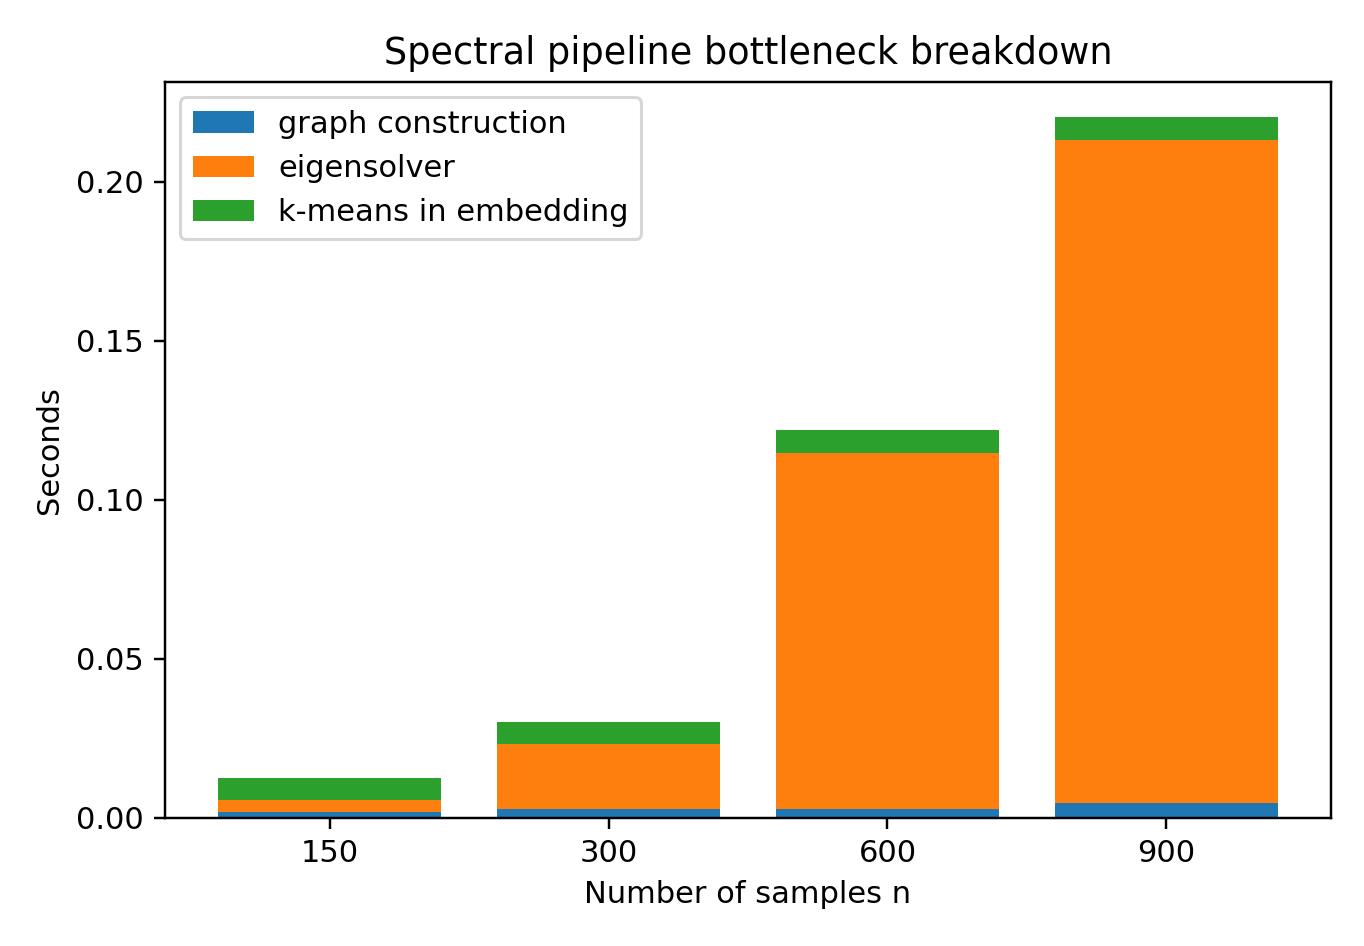
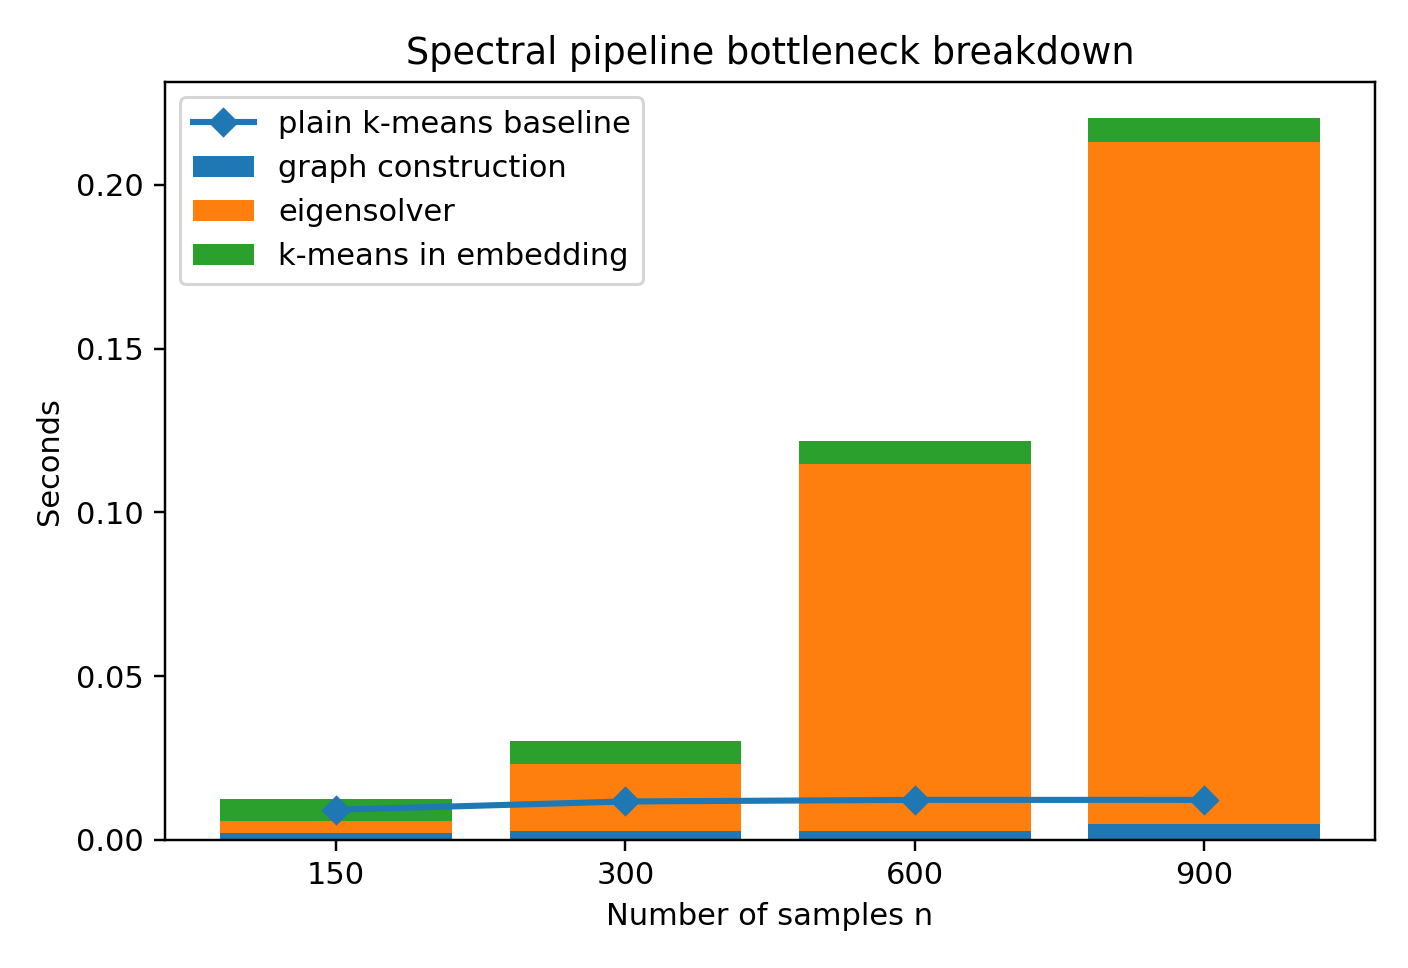
update inconsistency

Changed region(s): [[0.0308, 0.0307, 0.9853, 0.981], [0.7698, 0.1226, 0.9238, 0.1533]]

diff --git a/main.tex b/main.tex
@@ -81,7 +81,7 @@ There are three main costs.
     \item \textbf{$k$-means in spectral space.} Once the embedding is computed, the final step is cheap because the embedding has only $k$ columns.
 \end{enumerate}
 
-We measured these costs directly. On a two-moons benchmark, increasing $n$ from $150$ to $900$ increased the spectral pipeline runtime from $0.015$ s to $0.353$ s, while the $k$-means-only baseline remained around $0.013$--$0.016$ s. The eigensolver dominated the growth, while graph memory rose from about $24$ KiB to $161$ KiB for the sparse affinity matrix. Figure~\ref{fig:scaling} shows these trends.
+We measured these costs directly. On a two-moons benchmark, increasing $n$ from $150$ to $900$ increased the spectral pipeline runtime from about $0.012$ s to $0.220$ s, while the $k$-means-only baseline remained around $0.009$--$0.012$ s. The eigensolver dominated the growth, while graph memory rose from about $24$ KiB to $161$ KiB for the sparse affinity matrix. Figure~\ref{fig:scaling} shows these trends. Exact timings vary by machine, so we interpret the trend rather than the individual seconds.
 
 \section{Experimental design}
 \subsection{Metrics}
@@ -100,7 +100,7 @@ We used the following groups of experiments.
 For graph datasets, plain feature-space $k$-means is not naturally defined. To keep the comparison explicit, we used a weak but transparent baseline: $k$-means on adjacency rows. This is not a state-of-the-art graph clustering baseline, but it provides a concrete comparator.
 
 \section{Results: synthetic data}
-Table~\ref{tab:synthetic} summarizes the main synthetic experiments. The expected pattern is visible. Spectral clustering strongly beats $k$-means on non-convex geometry (two moons, circles), ties or nearly ties on well-separated blobs, and degrades gracefully on stress cases. The high-dimensional moons example is particularly useful: both methods weaken, but spectral clustering still retains a noticeable advantage because the low-dimensional manifold structure survives in local neighborhoods.
+Table~\ref{tab:synthetic} summarizes the main synthetic experiments. The expected pattern is visible on the clean low-dimensional examples: spectral clustering strongly beats $k$-means on non-convex geometry (two moons, circles), and ties or nearly ties on well-separated blobs. The stress cases are more nuanced. On high-dimensional moons, spectral clustering has a modest quantitative advantage, but the 2D projection in Figure~\ref{fig:highdim} makes clear that neither method cleanly recovers the original moon structure after many noisy coordinates are added. On the bridge-connected dataset, the method is better described as partially degraded rather than catastrophically failed: it separates the two main masses reasonably, but the thin bridge lowers the ARI and weakens the graph-cut interpretation.
 
 \begin{table}[H]
 \centering
@@ -113,15 +113,15 @@ Dataset & Spectral ARI & $k$-means ARI & Comment \\
 Two moons & 1.000 & 0.245 & Canonical non-convex success case. \\
 Circles & 1.000 & -0.002 & Spectral cleanly separates rings. \\
 Blobs & 0.990 & 0.995 & Both methods work on convex, separated clusters. \\
-High-dim moons & 0.404 & 0.259 & Spectral remains better after adding noisy coordinates. \\
+High-dim moons & 0.404 & 0.259 & Both methods degrade; spectral keeps a modest numerical edge. \\
 High-dim blobs & 1.000 & 1.000 & Both methods remain strong. \\
 Overlapping blobs & 0.302 & 0.254 & Ambiguous partition; both methods degrade. \\
-Bridge failure & 0.552 & 0.532 & Thin bridge weakens the graph cut separation. \\
+Bridge stress & 0.552 & 0.532 & Thin bridge partially weakens the intended cut. \\
 \bottomrule
 \end{tabular}
 \end{table}
 
-Figures~\ref{fig:moons}--\ref{fig:failure2} show representative examples. Spectral clustering does exactly what we expect on two moons and concentric circles. The bridge example is a more honest failure mode: once two clusters are connected by a thin path, graph connectivity can work against the desired partition.
+Figures~\ref{fig:moons}--\ref{fig:failure2} show representative examples. Spectral clustering does exactly what we expect on two moons and concentric circles. The high-dimensional moons and bridge examples are intentionally less clean: the metrics show only partial advantages, and the plots should be read as stress tests rather than visual proofs of successful recovery.
 
 \begin{figure}[H]
     \centering
@@ -143,7 +143,7 @@ Figures~\ref{fig:moons}--\ref{fig:failure2} show representative examples. Spectr
     \centering
     \includegraphics[width=0.47\textwidth]{final_pic/high_dim_moons_spectral.png}
     \includegraphics[width=0.47\textwidth]{final_pic/high_dim_moons_kmeans.png}
-    \caption{Moons embedded in higher dimension using additional noise coordinates. Spectral clustering still has a measurable advantage.}
+    \caption{Moons embedded in higher dimension using additional noise coordinates. Both methods degrade; spectral clustering retains a modest quantitative advantage but no longer cleanly recovers the moon structure in this projection.}
     \label{fig:highdim}
 \end{figure}
 
@@ -151,12 +151,12 @@ Figures~\ref{fig:moons}--\ref{fig:failure2} show representative examples. Spectr
     \centering
     \includegraphics[width=0.47\textwidth]{final_pic/overlapping_blobs_failure_spectral.png}
     \includegraphics[width=0.47\textwidth]{final_pic/bridge_failure_spectral.png}
-    \caption{Two stress cases for spectral clustering: overlapping blobs (left) and a bridge-connected dataset (right).}
+    \caption{Two stress cases for spectral clustering: overlapping blobs (left) and a bridge-connected dataset (right). In the bridge example, spectral clustering still separates the main masses, but the thin connection weakens the intended cut and reduces ARI.}
     \label{fig:failure2}
 \end{figure}
 
 \section{Results: real data and digit subsets}
-The project brief explicitly asks for the digit-subset progression $\{0,1\}$, $\{1,7\}$, $\{0,1,3,6\}$, and all digits. Table~\ref{tab:digits} reports those results. Spectral clustering performs very well on $\{0,1\}$, substantially beats $k$-means on $\{0,1,3,6\}$ and on all digits, but does poorly on $\{1,7\}$ for the specific graph-construction choice used here. That is a useful lesson rather than a bug: spectral clustering is sensitive to the neighborhood graph, and a case where vanilla $k$-means already aligns extremely well with the class geometry can favor $k$-means.
+The project brief explicitly asks for the digit-subset progression $\{0,1\}$, $\{1,7\}$, $\{0,1,3,6\}$, and all digits. Table~\ref{tab:digits} reports those results. The outcome is deliberately presented as a mixed result rather than a blanket win for spectral clustering. Spectral clustering is excellent on $\{0,1\}$ and strong on all ten digits, but it performs poorly on $\{1,7\}$ and underperforms $k$-means on $\{0,1,3,6\}$ for the particular $k$-NN graph used here. Our hypothesis is that raw pixel-space Euclidean distances already separate some digit subsets nearly linearly, while the local graph can become brittle when classes have different stroke styles and densities. This is a useful negative result: spectral clustering is sensitive to graph construction, not a free improvement over $k$-means.
 
 \begin{table}[H]
 \centering
@@ -166,28 +166,28 @@ The project brief explicitly asks for the digit-subset progression $\{0,1\}$, $\
 \toprule
 Subset & Method & Accuracy & ARI & Purity \\
 \midrule
-$\{0,1\}$ & Spectral & 0.997 & 0.989 & 0.997 \\
+$\{0,1\}$ & Spectral & 0.994 & 0.978 & 0.994 \\
 $\{0,1\}$ & $k$-means & 0.994 & 0.978 & 0.994 \\
 \addlinespace
 $\{1,7\}$ & Spectral & 0.571 & 0.019 & 0.571 \\
 $\{1,7\}$ & $k$-means & 1.000 & 1.000 & 1.000 \\
 \addlinespace
-$\{0,1,3,6\}$ & Spectral & 0.994 & 0.985 & 0.994 \\
+$\{0,1,3,6\}$ & Spectral & 0.780 & 0.696 & 0.780 \\
 $\{0,1,3,6\}$ & $k$-means & 0.935 & 0.838 & 0.935 \\
 \addlinespace
-All digits & Spectral & 0.757 & 0.670 & 0.774 \\
+All digits & Spectral & 0.770 & 0.680 & 0.785 \\
 All digits & $k$-means & 0.589 & 0.468 & 0.623 \\
 \bottomrule
 \end{tabular}
 \end{table}
 
-Figure~\ref{fig:digits} shows the $\{0,1,3,6\}$ subset after PCA to two dimensions for visualization only; the actual clustering was run in the full standardized feature space. Figure~\ref{fig:digitsbar} summarizes purity across the four required digit experiments.
+Figure~\ref{fig:digits} shows the $\{0,1,3,6\}$ subset after PCA to two dimensions. This plot is illustrative only: it compresses a 64-dimensional pixel space into two axes and therefore cannot fully explain the metric gap in Table~\ref{tab:digits}. The stronger evidence is the quantitative table and the purity summary in Figure~\ref{fig:digitsbar}.
 
 \begin{figure}[H]
     \centering
     \includegraphics[width=0.47\textwidth]{final_pic/digits_2d_spectral.png}
     \includegraphics[width=0.47\textwidth]{final_pic/digits_2d_kmeans.png}
-    \caption{Digits subset $\{0,1,3,6\}$ visualized in 2D by PCA. Spectral clustering gives a cleaner partition on this harder multi-class subset.}
+    \caption{Digits subset $\{0,1,3,6\}$ visualized in 2D by PCA. Both clusterings look fairly clean in this projection; the quantitative table is needed to evaluate the actual clustering quality.}
     \label{fig:digits}
 \end{figure}
 
@@ -212,12 +212,12 @@ Spectral clustering is especially natural on graph data. On Zachary's karate clu
 \end{figure}
 
 \section{Noise robustness and computational scaling}
-Figure~\ref{fig:noise} shows ARI under additive Gaussian noise on two moons. Spectral clustering remains perfect for small noise and clearly stronger than $k$-means over a useful range, but it eventually degrades once the local graph no longer reflects the underlying manifold. This is exactly the sort of robustness experiment the brief asks for.
+Figure~\ref{fig:noise} shows ARI under additive Gaussian noise on two moons. Spectral clustering is excellent at low noise, but performance becomes unstable once noise disrupts the local graph structure. The curve is not monotone: the small bump around intermediate noise is likely seed-level variation from a single trial, and should not be over-interpreted. The robust conclusion is that the method has a low-noise success regime and then rapidly becomes graph-construction sensitive.
 
 \begin{figure}[H]
     \centering
     \includegraphics[width=0.58\textwidth]{final_pic/noise_moons_ari.png}
-    \caption{ARI versus additive Gaussian noise on two moons.}
+    \caption{ARI versus additive Gaussian noise on two moons. Spectral clustering succeeds at low noise, then becomes unstable once the neighborhood graph no longer reliably tracks the moon geometry.}
     \label{fig:noise}
 \end{figure}
 
@@ -276,12 +276,12 @@ Figure~\ref{fig:failuretaxonomy} collects three interpretable failure or stress 
 \end{figure}
 
 \subsection{Runtime bottleneck breakdown}
-Figure~\ref{fig:bottleneck} expands the computational scaling analysis by decomposing spectral clustering runtime into graph construction, eigensolver, and final $k$-means-on-embedding stages.  For the largest sizes tested, the eigensolver dominates the runtime.  This agrees with the theoretical discussion: once a sparse graph has been built, the expensive stage is extracting the relevant eigenvectors of a large sparse Laplacian.
+Figure~\ref{fig:bottleneck} expands the computational scaling analysis by decomposing spectral clustering runtime into graph construction, eigensolver, and final $k$-means-on-embedding stages, and overlays the plain $k$-means baseline from the same benchmark.  For the largest sizes tested, the spectral total almost exactly tracks eigensolver time, while the baseline remains much smaller.  This agrees with the theoretical discussion: once a sparse graph has been built, the expensive stage is extracting the relevant eigenvectors of a large sparse Laplacian.
 
 \begin{figure}[H]
     \centering
     \includegraphics[width=0.68\textwidth]{final_pic/runtime_bottleneck_breakdown.png}
-    \caption{Runtime bottleneck breakdown for the spectral clustering pipeline.  The final $k$-means step is small; the eigensolver becomes the dominant cost as $n$ grows.}
+    \caption{Runtime bottleneck breakdown for the spectral clustering pipeline, with a plain $k$-means baseline overlaid.  The final $k$-means step is small; the eigensolver becomes the dominant cost as $n$ grows.}
     \label{fig:bottleneck}
 \end{figure}
 
@@ -292,10 +292,10 @@ Overall, the experiments match the standard theory quite well.
     \item On non-convex synthetic datasets, spectral clustering substantially outperforms $k$-means.
     \item On standard blob-like data, both methods are strong and $k$-means can even be slightly better.
     \item On graph/community datasets, spectral clustering is especially natural and strong.
-    \item On the required digit subsets, spectral clustering is not uniformly better; it helps strongly on the harder multi-class subsets but not on the easy $\{1,7\}$ pair. This is a useful reminder that graph construction is a modeling choice, not a free lunch.
+    \item On the required digit subsets, spectral clustering is not uniformly better; it wins on $\{0,1\}$ and all digits, but loses on $\{1,7\}$ and $\{0,1,3,6\}$ under the chosen graph. This is a useful reminder that graph construction is a modeling choice, not a free lunch.
 \end{itemize}
 
-The project brief also asks whether the results match expectations. The answer is mostly yes. The main surprise is the $\{1,7\}$ subset, where $k$-means already aligns almost perfectly with the raw feature geometry and our particular neighborhood graph is comparatively poor. This is an informative negative result and belongs in the report.
+The project brief also asks whether the results match expectations. The answer is mostly yes, but the exceptions are important. The main surprises are the $\{1,7\}$ and $\{0,1,3,6\}$ digit subsets, where $k$-means already aligns well with raw pixel geometry and our particular neighborhood graph is comparatively poor. The high-dimensional moons and bridge examples also show that a numerical advantage can be visually modest. These are informative negative results, so the revised captions deliberately avoid overstating what the plots show.
 
 \section{Reproducibility}
 The code is organized as a small Python workspace. Running

diff --git a/code/spectral_project/plots.py b/code/spectral_project/plots.py
@@ -92,8 +92,9 @@ def eigenvalue_plot(path: Path, eigs_dict: dict[str, list[float]], title: str) -
     plt.close()
 
 
-def stacked_runtime(path: Path, df, title: str) -> None:
-    plt.figure(figsize=(6.2, 4.3))
+def stacked_runtime(path: Path, df, title: str, baseline_df=None) -> None:
+    """Stacked spectral runtime bars, optionally with a plain k-means baseline line."""
+    plt.figure(figsize=(6.4, 4.4))
     x = np.arange(len(df))
     labels = [str(v) for v in df["n"].tolist()]
     bottom = np.zeros(len(df))
@@ -105,6 +106,9 @@ def stacked_runtime(path: Path, df, title: str) -> None:
         vals = df[col].to_numpy(dtype=float)
         plt.bar(x, vals, bottom=bottom, label=lab)
         bottom += vals
+    if baseline_df is not None and len(baseline_df) > 0:
+        base = baseline_df.set_index("n").loc[df["n"].tolist()]
+        plt.plot(x, base["total_seconds"].to_numpy(dtype=float), marker="D", linewidth=2, label="plain k-means baseline")
     plt.xticks(x, labels)
     plt.xlabel("Number of samples n")
     plt.ylabel("Seconds")

diff --git a/code/spectral_project/experiments.py b/code/spectral_project/experiments.py
@@ -451,7 +451,8 @@ def run_bottleneck_breakdown(random_state: int = 0) -> pd.DataFrame:
     """More explicit runtime bottleneck figure derived from the scaling benchmark."""
     df = pd.read_csv(results_dir() / "scaling_metrics.csv")
     sdf = df[df["method"] == "spectral"].copy()
-    stacked_runtime(figures_dir() / "runtime_bottleneck_breakdown.png", sdf, "Spectral pipeline bottleneck breakdown")
+    kdf = df[df["method"] == "kmeans"].copy()
+    stacked_runtime(figures_dir() / "runtime_bottleneck_breakdown.png", sdf, "Spectral pipeline bottleneck breakdown", baseline_df=kdf)
     total = sdf["total_seconds"].replace(0, np.nan)
     pct = sdf[["graph_seconds", "eigensolver_seconds", "post_kmeans_seconds"]].div(total, axis=0) * 100
     pct.insert(0, "n", sdf["n"].values)

diff --git a/TODO.md b/TODO.md
@@ -41,6 +41,29 @@ This file summarizes what has been completed and what remains optional.
   - Output: `final_pic/runtime_bottleneck_breakdown.png`
   - Metrics: `results/runtime_bottleneck_percent.csv`
 
+
+## Caption/text consistency audit completed
+
+- [x] Revised high-dimensional moons language.
+  - Change: downgraded the claim from a visually clean recovery to a modest quantitative advantage.
+  - Reason: the plot shows both methods are degraded after adding noisy coordinates.
+
+- [x] Revised digit-subset discussion.
+  - Change: emphasized that the PCA visualization is illustrative only and that the quantitative table is the stronger evidence.
+  - Reason: a 2D PCA projection can hide differences that appear in the full metric table.
+
+- [x] Revised noise-robustness language.
+  - Change: described the curve as unstable/non-monotone after graph disruption rather than as smooth degradation.
+  - Reason: the single-seed sweep has a small intermediate bump.
+
+- [x] Revised bridge example.
+  - Change: renamed it from a catastrophic failure to a stress/partial-degradation case.
+  - Reason: the visual plot still separates the two main masses reasonably.
+
+- [x] Revised runtime bottleneck figure.
+  - Change: overlaid the plain k-means baseline on the bottleneck plot.
+  - Reason: the text compares spectral runtime to k-means, so the figure should display the comparison directly.
+
 ## Optional remaining improvements
 
 - [ ] Repeated-seed robustness.

diff --git a/README.md b/README.md
@@ -89,6 +89,19 @@ The current code runs:
   - failure mode taxonomy,
   - runtime bottleneck breakdown.
 
+
+## Recent revision: figure-caption consistency
+
+The current version includes a pass that aligns captions and discussion with the actual plots and metric tables. In particular:
+
+- high-dimensional moons are described as a modest quantitative advantage, not a clean visual recovery;
+- the digit PCA figure is described as illustrative only, with the quantitative table carrying the claim;
+- the noise curve is described as single-seed and non-monotone after graph disruption;
+- the bridge example is treated as a stress/partial-degradation case rather than a catastrophic failure;
+- the runtime bottleneck plot now overlays the plain k-means baseline used in the text.
+
+This makes the report more cautious and defensible: visual figures illustrate behavior, while stronger claims are tied to the metric tables.
+
 ## Notes for new contributors
 
 The main entrypoint is `spectral_project/experiments.py`. To add a new experiment:
